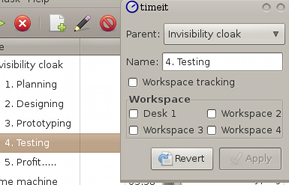
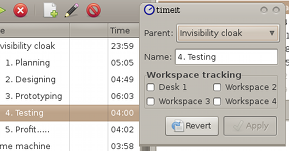
Update of help- page

diff --git a/doc/html/C/index.html b/doc/html/C/index.html
@@ -6,32 +6,68 @@
 <title>TimeIT the unobtrusive timetracker</title>
 </head>
 <body>
+<img src="TimeIT-MainWindow.png" width="400" height="272" border="0" alt="" align="right">
 <H1>TimeIT timetracker</h1>
 
 <H2>Introduction</h2>
 <p>
-<img src="TimeIT-MainWindow.png" width="400" height="272" border="0" alt="" align="right">
 TimeIT is a tool intended to help you to keep track on how much time you 
 spend on tasks.</p><p>It is intended to be discreet and unobtrusive. It is using  
 workspace-tracking and idle detection to minimize the interaction needed, in the 
 intended use case you are not even interacting at all with the program</p>
+
+<H2>Download</H2>
+<p>You can download this project in either <a href"http://github.com/Hoglet/TimeIT/zipball/master">zip</a> or <a href="http://github.com/Hoglet/TimeIT/tarball/master">tar</a> formats.
+</p>
+<p>
+You can also clone the project with Git by running:
+<pre>
+$ git clone git://github.com/Hoglet/TimeIT
+</pre>
+</p>
+<p>
+Prepackaged binaries are available for Debian/Ubuntu: <a href="https://launchpad.net/~hoglet/+archive/timeit
+">https://launchpad.net/~hoglet/+archive/timeit</a>
 <H2>Main Components</h2>
 <H3>Main window</h3>
 <H3>Status icon</h3>
+<table>
+<tr>
+<td>
+The program puts into the status tray, if such exists, an icon which:
+<ul>
+<li>Shows the state: green if timer(s) are running.</li>
+<li>Toggles main window when clicked</li>
+<li>Has a small menu on right click</li> 
+</ul>
+</td>
+<td>
+<img src="StatusIcon.png" width="44" height="31">
+</td>
+</tr>
+</table>
 
-
-<H2>Getting started</h2>
-
-<H3>Create/edit task</h3>
+<H2>Tasks</h2>
+Tasks can be organized in a tree where one task is parent to others thus grouping tasks bonded 
+together like different parts of a project. Parents are then shown with the aggregated time.
 <table>
 <tr><td>
-<H3>Set parent</H3>
-
-<H3>Assign workspace for desktop tracking</h3>
-
-<H3>Enable workspace tracking</h3>
+<H3>Create/edit task</h3>
+Creating, or editing, a task is done through menu, toolbar or context menu. 
+The dialog then opened contains possibility ty change following aspects of the task:
+<dl> 
+<dt>Name</dt>
+<dd>The name of the task</dd>
+<dt>Parent</dt>
+<dd>
+</dd>
+<dt>Workspace</dt>
+<dd>
+This is setting on which workspaces TimeIt should run the tasks timer. 
+</dd>
+</dl>
 </td>
-<td><img src="TimeIT-EditTask.png" width="289" height="185" border="0" alt="Edit task"><br/><small>Edit task</small></td></tr>
+<td><img src="TimeIT-EditTask.png" width="289" height="151" border="0" alt="Edit task"><br/><small>Edit task window</small></td></tr>
 </table>
 <h3>Start a task manually</h3>
 
@@ -40,34 +76,48 @@ intended use case you are not even interacting at all with the program</p>
 <table>
 <tr>
 <td>
-<p>Here you can set how TimeIt behaves.
-</p>
+Here you can set how TimeIt behaves.
+
 <dl>
 <dt>Compact layout</dt>
-<dd>If you want a more compact layout than the traditional full with menu and tool bar you can enable this</dd>
+<dd>Enables a more compact layout than the traditional full width menu and tool bar.</dd>
 <dt>Start minimized</dt>
 <dd>If enabled then the main window will not open on start. This is the intended behavior but it is not enabled default to avoid confusion</dd>
 <dt>Idle time</dt>
 <dd>This is the maximum time of no activity before TimeIt decides that a break have occured. When this </dd>
+<dt>Zero time</dt>
+<dd>Shorter than this time will not be counted.</dd>
 </dl>
-
-
 </td>
 <td><img src="MainWindow-Preferences.png" width="146" height="139" border="0" alt="" align="right">
 </td>
 </tr>
 </table>
 <H2>Add time manually</h2>
-
+To add time to a task you simply select the task in the list and then select "Add time" from Task menu (or context menu)
 <H2>Summaries</h2>
 <table>
 <tr>
-<td></td>
-<td><img src="TimeIT-EditTime.png" width="261" height="217" border="0" alt="" align="right">
+<td>This area shows how much time is recorded on tasks and the accumulated value for the parents. You can choose between grouping per day, week, month or year. Changing date in the calendar changes what point in time being used, enabling checking time spent in previous days or years.</td>
+<td><img src="TimeIT-summaries.png" width="345" height="241" border="0" alt="" align="right">
 </td>
 </tr>
 </table>
-<h3>Edit times</h3>
+<h3>Show/Edit time records</h3>
+<table><tr>
+<td>
+<p>By double clicking or using context menu on an item in the summary you 
+bring up a window showing the individual time recordings that together bring the sum shown in summary.
+</p>
+<p>
+Here you can edit or remove times.
+</td>
+<td>
 <img src="TimeIT-EditTime.png" width="261" height="217" border="0" alt="">
+</td>
+</tr>
+</table>
+<H2>Reporting bugs</H2>
+Any found bugs are preferably reported on <a href="https://bugs.launchpad.net/timeit/+filebug">launchpad</a>
 </body>
 </html>

diff --git a/doc/html/style.css b/doc/html/style.css
@@ -1,0 +1,8 @@
+td
+{
+	vertical-align: top;
+}
+img
+{
+	margin: 5px;
+}
